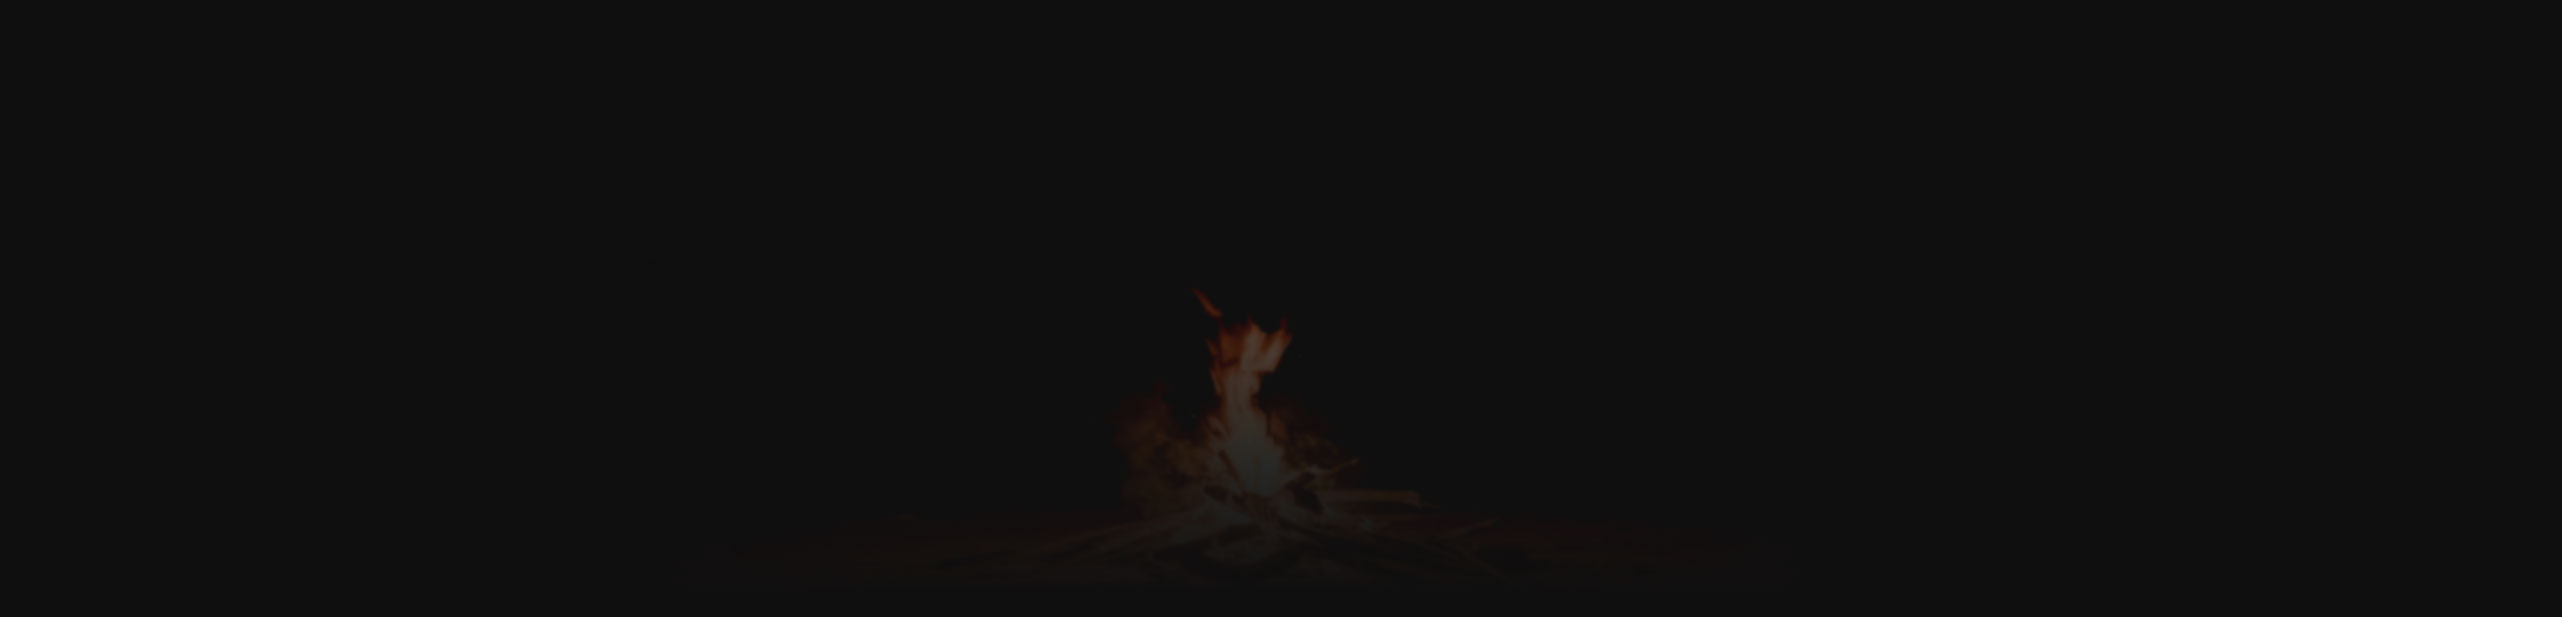
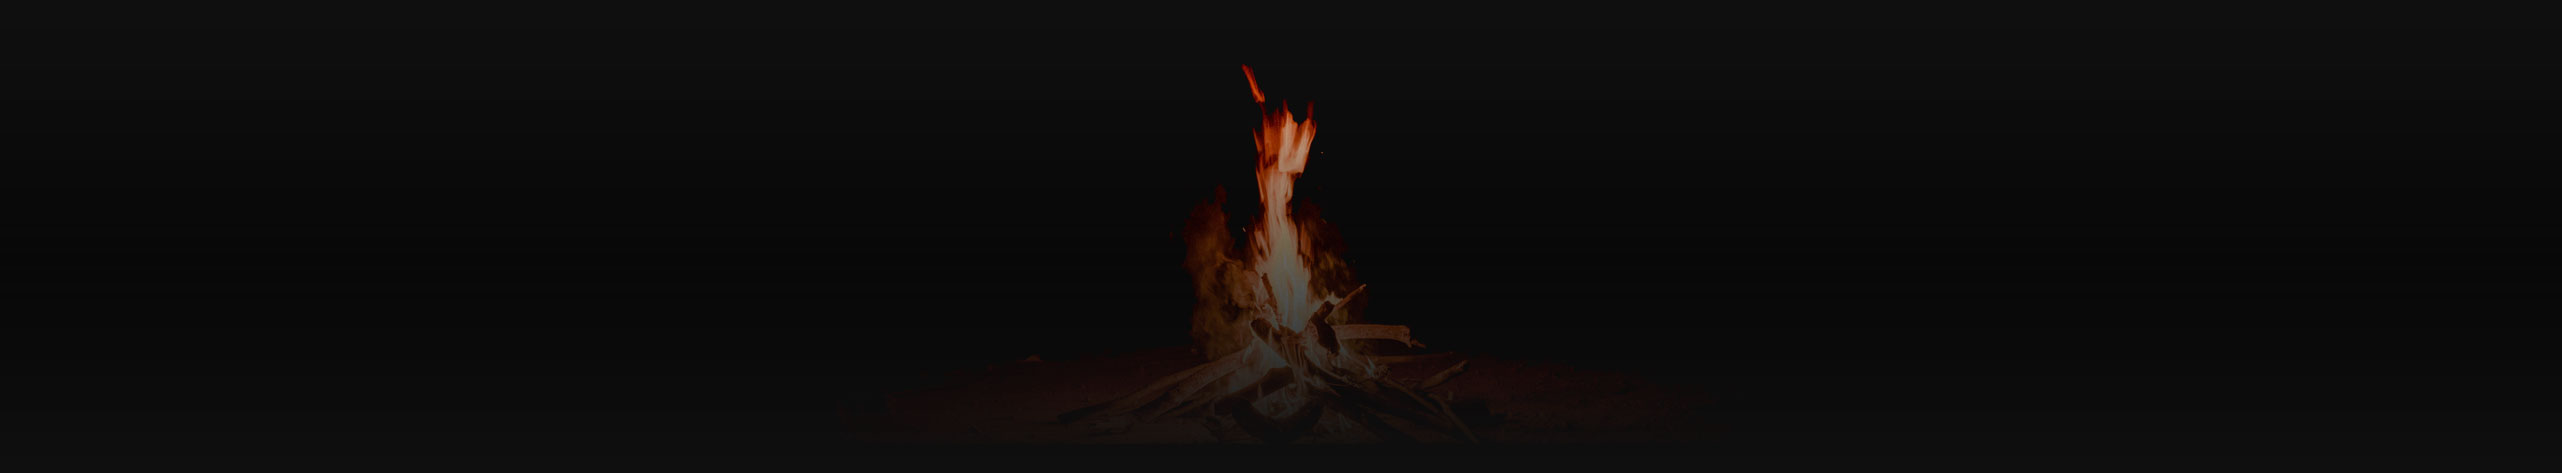
Add updated image to image folder for dates section. Add lower fire image to buffer news and footer section. Add media.html page

Changed region(s): [[0.4372, 0.2368, 0.5621, 0.7992], [0.4684, 0.148, 0.4996, 0.2072]]

diff --git a/assets/css/style.css b/assets/css/style.css
@@ -43,6 +43,7 @@ nav {
     display: flex;
     flex-wrap: wrap;
     align-items: center;
+    justify-content: center;
 }
 
 .col-third {
@@ -236,7 +237,7 @@ h3 {
 }
 
 #CD {
-    width: 80%;
+    width: 60%;
     filter: drop-shadow(30px 10px 4px #0f0f0f);
     margin-bottom: 3%;
 }
@@ -262,6 +263,12 @@ h3 {
     order: 2;
 }
 
+.fire-box {
+    height: 600px;
+    width: 100%;
+    background: url('/assets/images/footer-fire.jpg') no-repeat center center;   
+}
+
 #festival-poster {
     width: 45%;
     filter: drop-shadow(30px 10px 4px #0f0f0f);
@@ -274,14 +281,15 @@ h3 {
 #footer-container {
     height: 200px;
     width: auto;
+    
 }
 
 #footer-logo {
-    width: 80%;
+    width: 70%;
 }
 
 #footer-info {
-    margin-top: 10%;
+    margin-top: 5%
 }
 
 @media screen and (max-width: 600px) {

diff --git a/media.html b/media.html
@@ -119,7 +119,7 @@
 
                     <p class="news-text">Cumasc Gael are currently recording their first studio album.
                         <p class="news-text">'The Cutty Sark Mutiny' is a true reflection of the group's unique,
-                            'Celtic-Bluegrass' sound. Featuring 11 foot-stomping, modern classics including the singles:
+                            'Celtic-Bluegrass' sound. Featuring 11 foot-stomping modern classics including the singles:
                             'Gagged and Bound', 'G.I.G (God is Good) and 'I Said Nothing'.</p>
                             <p class="news-text">Check out the <a href="#">Media</a> page for an exclusive sneak preview!</p>
                         <p class="news-text"> Release Date TBA </p>
